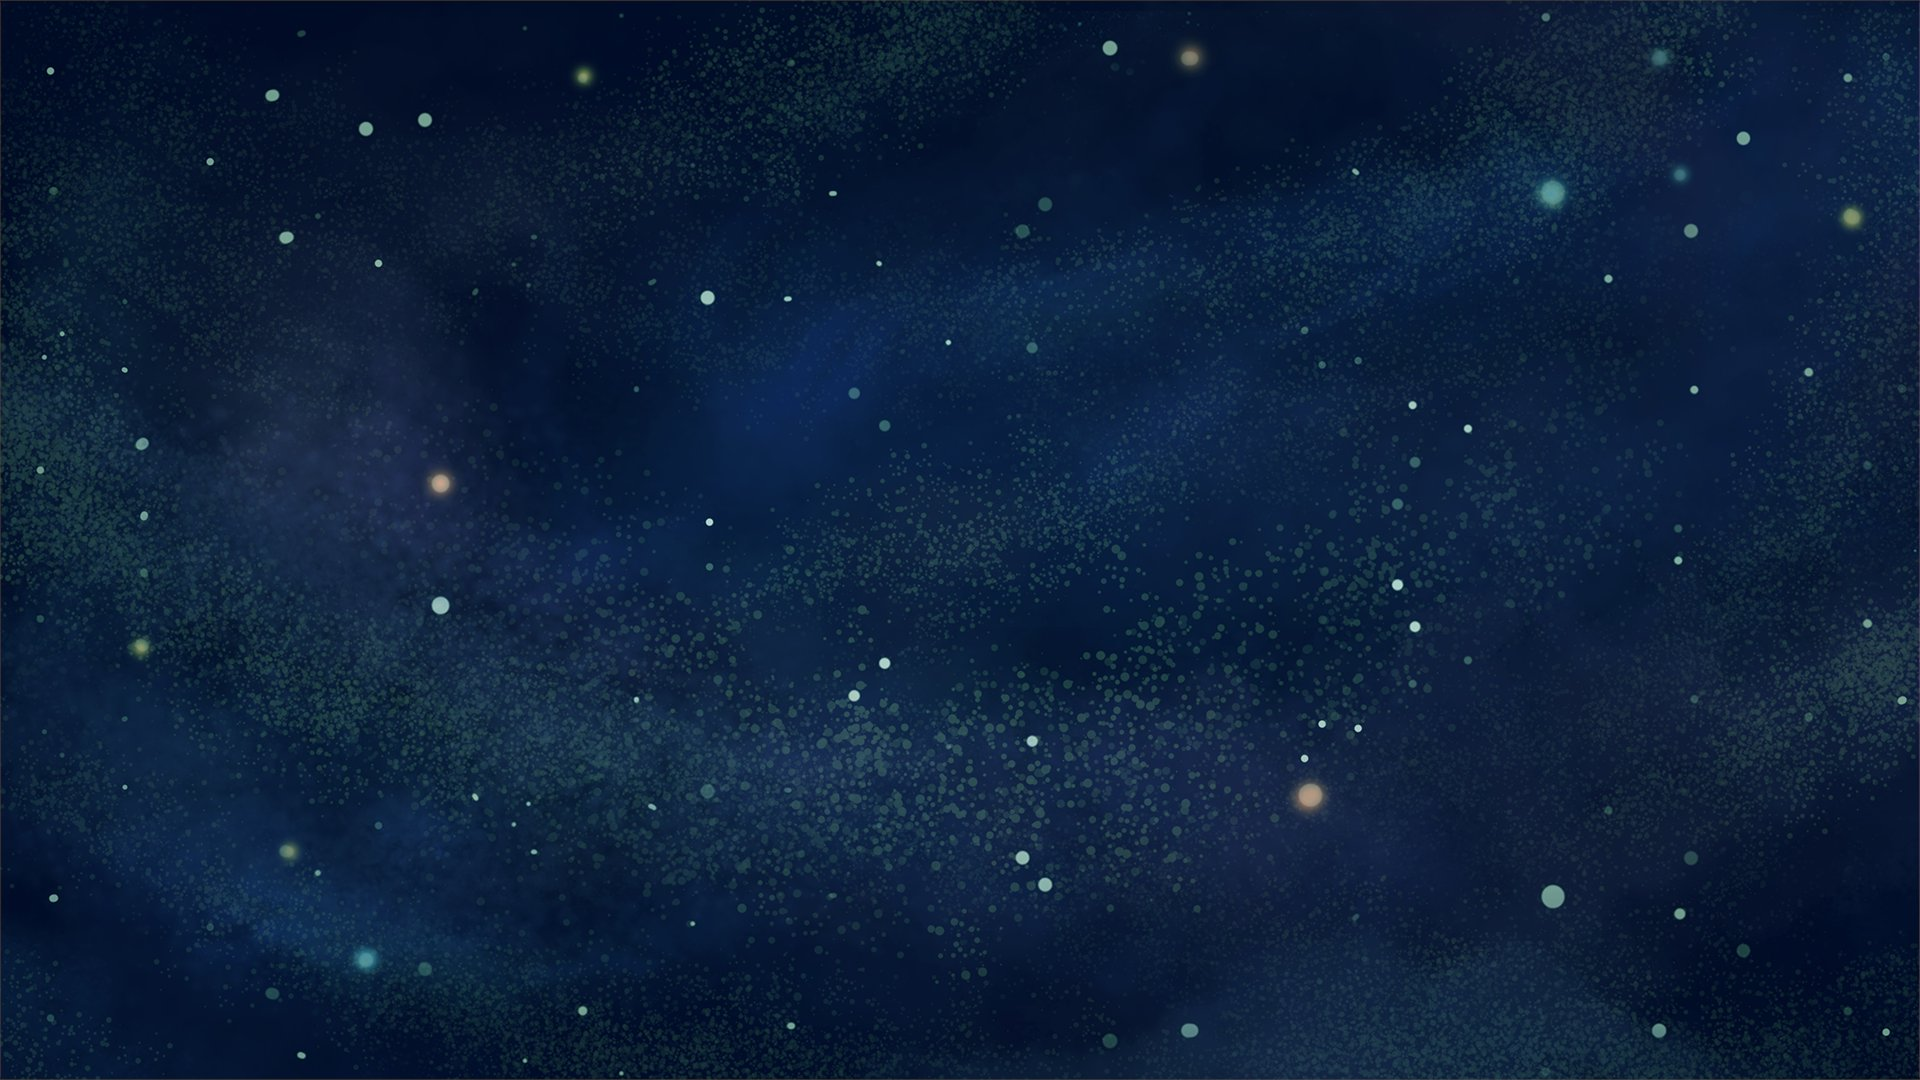
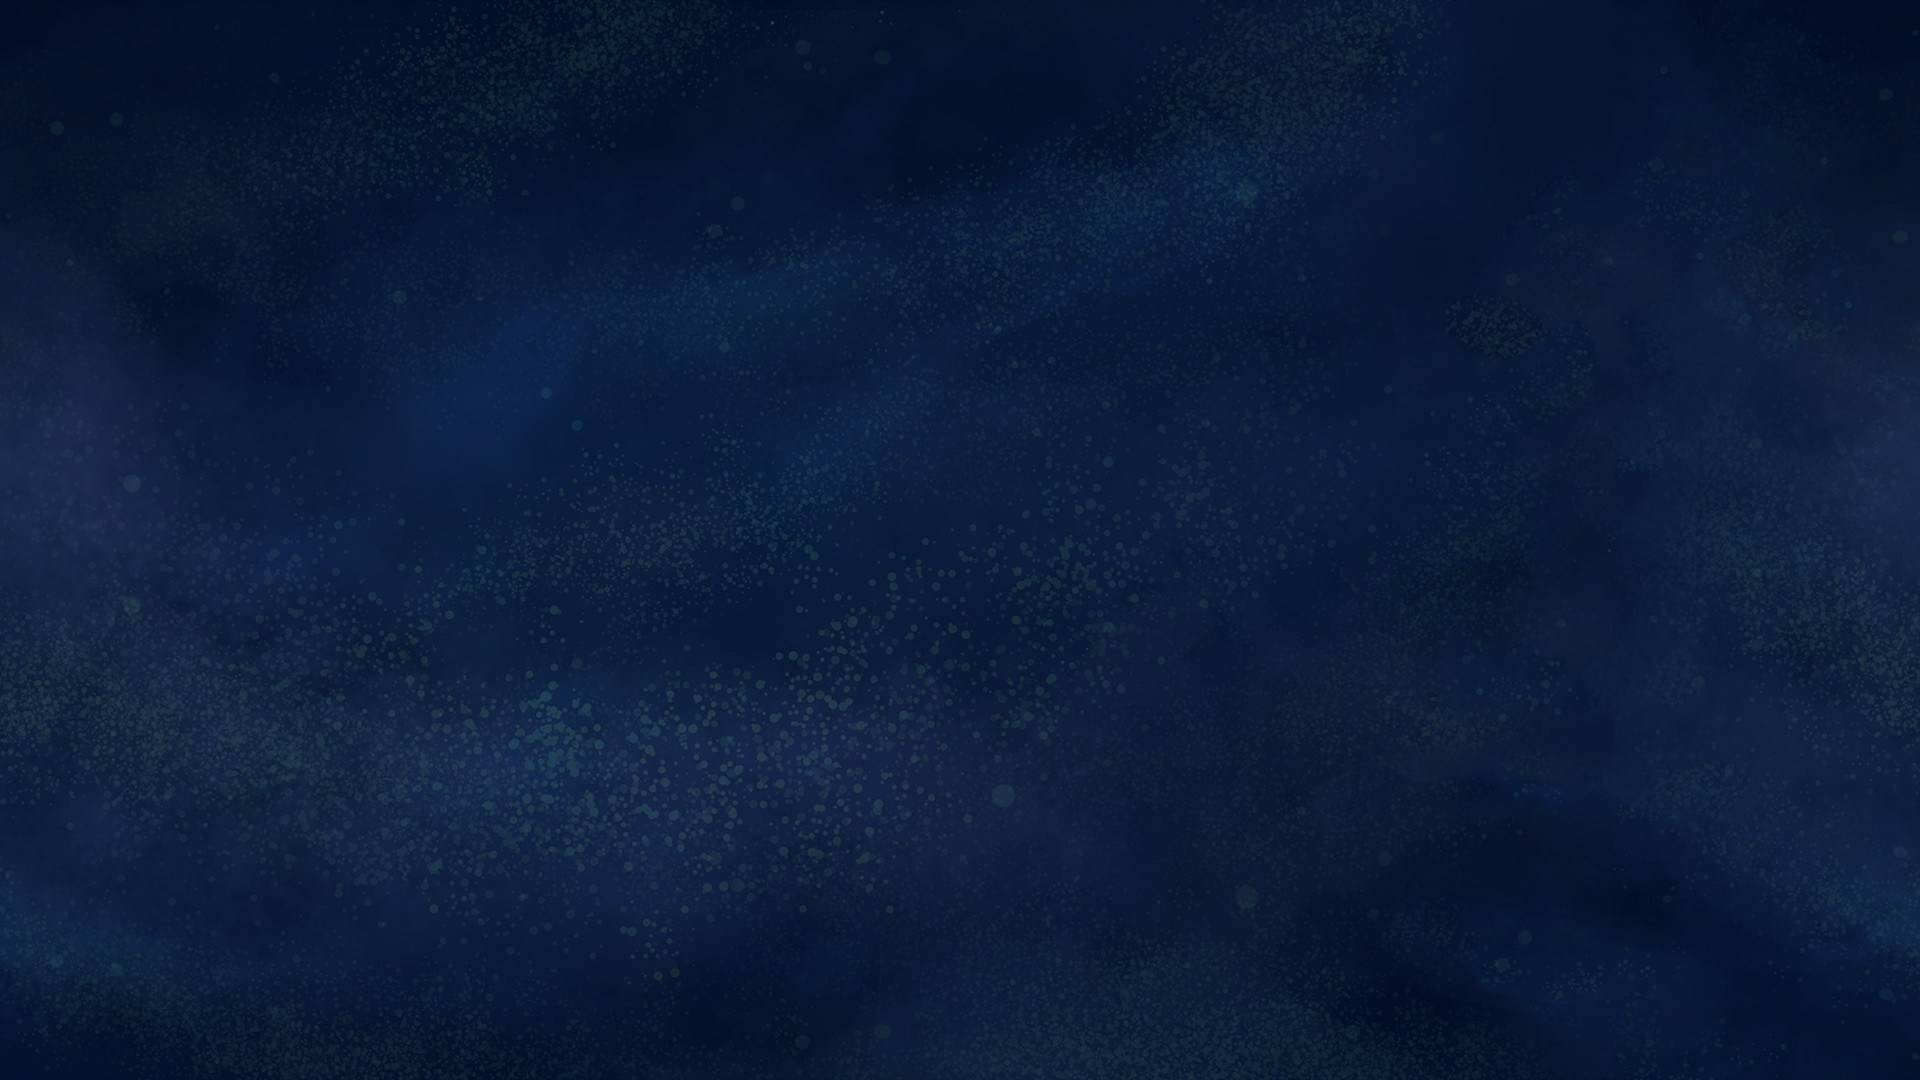
LightSpeed: add new BackgroundScene
Add moving background with parallax stars

https://phabricator.endlessm.com/T26171

diff --git a/com.endlessm.LightSpeed/app/backgroundScene.js b/com.endlessm.LightSpeed/app/backgroundScene.js
@@ -1,0 +1,105 @@
+/* LightSpeed
+ *
+ * Copyright (C) 2019 Endless Mobile, Inc.
+ *
+ * Author: Juan Pablo Ugarte <ugarte@endlessm.com>
+ */
+
+/* exported BackgroundScene */
+
+class BackgroundScene extends Phaser.Scene {
+
+    preload() {
+        this.load.image('background', 'assets/background.jpg');
+        this.load.atlas('background-particles', 'assets/atlas/background-particles.png',
+            'assets/atlas/background-particles.json');
+    }
+
+    create(speed) {
+        const width = game.config.width;
+        const height = game.config.height;
+        var screen = new Phaser.Geom.Rectangle(-50, 0, width + 100, height);
+        var offscreen = new Phaser.Geom.Line(width + 50, 0, width + 50, height);
+        const v = speed / 20;
+
+        this.cameras.main.fadeIn(200);
+
+        /* Background */
+        this.bgA = this.physics.add.image(0, 0, 'background');
+        this.bgB = this.physics.add.image(this.bgA.width, 0, 'background');
+
+        this.bgA.setOrigin(0, 0);
+        this.bgB.setOrigin(0, 0);
+        this.bgB.flipX = true;
+
+        this.bgA.setVelocityX(-v);
+        this.bgB.setVelocityX(-v);
+
+        this.backgrounds = [this.bgA, this.bgB];
+
+        /* Create Particles */
+        var bg = {
+            emitZone: { source: screen },
+            deathZone: { source: screen, type: 'onLeave' },
+            scale: {max: 1, min: 0.3},
+            lifespan: 100000,
+            blendMode: 'ADD'
+        };
+
+        var background = this.add.particles('background-particles');
+        this.bg1 = background.createEmitter(Object.assign(bg, {
+            frame: ['bg-p1', 'bg-p2', 'bg-p3', 'bg-p4'],
+            frequency: 500,
+            speedX: {min: v * -1.1, max: v * -1.4}
+        }));
+        this.bg2 = background.createEmitter(Object.assign(bg, {
+            frame: ['bg-p5', 'bg-p6'],
+            frequency: 700,
+            speedX: {min: v * -1.5, max: v * -2}
+        }));
+
+        this.bg1.emitParticle(96);
+        this.bg1.setEmitZone({ source: offscreen });
+
+        this.bg2.emitParticle(24);
+        this.bg2.setEmitZone({ source: offscreen });
+
+
+        this.events.on('shutdown', () => {
+            this.input.keyboard.shutdown();
+        }, this);
+    }
+
+    update() {
+        for (let i = 0, n = this.backgrounds.length; i < n; i++) {
+            const bg = this.backgrounds[i];
+
+            if (bg.width + bg.x <= 0)
+                bg.x += bg.width * n;
+        }
+    }
+
+    setSpeed(speed) {
+        const v = speed / 20;
+
+        /* Update Backgrounds speed */
+        for (let i = 0, n = this.backgrounds.length; i < n; i++)
+            this.backgrounds[i].setVelocityX(-v);
+
+        /* Update Particles speed */
+        this.bg1.setSpeedX({min: v * -1.1, max: v * -1.4});
+        this.bg2.setSpeedX({min: v * -1.5, max: v * -2});
+
+        const _velocity = this._velocity || v;
+
+        this.bg1.forEachAlive((p) => {
+            p.velocityX = v * p.velocityX / _velocity;
+        });
+        this.bg2.forEachAlive((p) => {
+            p.velocityX = v * p.velocityX / _velocity;
+        });
+
+        this._velocity = v;
+    }
+}
+

diff --git a/com.endlessm.LightSpeed/app/levelScene.js b/com.endlessm.LightSpeed/app/levelScene.js
@@ -8,7 +8,7 @@
 /* exported LevelScene, CONFETTI_COLORS, ASTRONAUT_PARTICLE_COLORS */
 /* global Ship, enemyTypes, saveState, shipTypes, powerupTypes,
     SpawnAstronautScope, SpawnEnemyScope, UpdateEnemyScope, SpawnPowerupScope,
-    ActivatePowerupScope, resetGlobalCounters */
+    ActivatePowerupScope, resetGlobalCounters, BackgroundScene */
 
 const CONFETTI_COLORS = [
     0x1500ff,
@@ -53,7 +53,6 @@ class LevelScene extends Phaser.Scene {
 
         this.resetQuestData();
 
-
         /* Create userScope */
         this.spawnAstronautScope = new SpawnAstronautScope();
         this.spawnEnemyScope = new SpawnEnemyScope();
@@ -85,7 +84,6 @@ class LevelScene extends Phaser.Scene {
 
     preload() {
         /* Common assets */
-        this.load.image('background', 'assets/background.jpg');
         this.load.image('astronaut', 'assets/astronaut.png');
         this.load.image('particle', 'assets/particles/particle.png');
         this.load.image('star', 'assets/particles/star.png');
@@ -111,13 +109,13 @@ class LevelScene extends Phaser.Scene {
     }
 
     create() {
-        const {centerX, centerY} = this.cameras.main;
-
-        /* Background */
-        this.add.image(centerX, centerY, 'background');
+        const centerY = game.config.height / 2;
 
         /* Fade in scene */
         this.cameras.main.fadeIn(200);
+
+        this.scene.launch('background', this.params.shipSpeed);
+        this.background = this.scene.get('background');
 
         /* Ship */
         this.ship = new Ship(this, this.params.shipAsset, 256, centerY);
@@ -357,6 +355,8 @@ class LevelScene extends Phaser.Scene {
             this.ship.setType(this.params.shipAsset);
         } else if (property === 'shipSize') {
             this.ship.setScale(this.params.shipSize / 100);
+        } else if (property === 'shipSpeed') {
+            this.background.setSpeed(this.params.shipSpeed);
         } else if (property === 'astronautSize') {
             this.astronauts.getChildren().forEach(astronaut => {
                 astronaut.setScale(this.params.astronautSize / 100);

diff --git a/com.endlessm.LightSpeed/app/titleScene.js b/com.endlessm.LightSpeed/app/titleScene.js
@@ -19,7 +19,6 @@ class TitleScene extends Phaser.Scene {
 
     preload() {
         /* Images */
-        this.load.image('background', 'assets/background.jpg');
         this.load.image('logo', 'assets/logo.png');
         this.load.image('particle', 'assets/particles/particle.png');
         this.load.image('astronaut', 'assets/astronaut.png');
@@ -39,12 +38,13 @@ class TitleScene extends Phaser.Scene {
         /* Reset Camera FX */
         this.cameras.main.resetFX();
 
-        /* Background */
-        var bg = this.add.image(centerX, centerY, 'background');
+        this.scene.launch('background', levelParameters[0].shipSpeed);
+        this.scene.moveDown('background');
 
         /* Bottom text */
         var text = this.add.text(0, 0, 'Press ENTER to start.', fontConfig);
-        Phaser.Display.Align.In.BottomCenter(text, bg, 0, -128);
+        text.setOrigin(0.5, 0.5);
+        text.setPosition(centerX, centerY * 1.8);
         this.tweens.add({
             targets: text,
             alpha: 0.16,

diff --git a/com.endlessm.LightSpeed/app/main.js b/com.endlessm.LightSpeed/app/main.js
@@ -9,7 +9,8 @@
 
 /* global globalParameters, defaultLevelParameters, defaultParameters,
     levelParameters, resetGlobalUserCode, ContinueScene, DebugScene,
-    GameOverScene, LevelScene, StartScene, TitleScene, ToyApp */
+    GameOverScene, LevelScene, StartScene, TitleScene, BackgroundScene,
+    ToyApp */
 
 const fontConfig = {
     color: 'white',
@@ -45,6 +46,7 @@ var config = {
     },
     scene: [
         titleScene,
+        new BackgroundScene('background'),
         new LevelScene('level'),
         new StartScene('start'),
         new GameOverScene('gameover'),

diff --git a/com.endlessm.LightSpeed/app/index.html b/com.endlessm.LightSpeed/app/index.html
@@ -15,6 +15,7 @@
     <script src="continueScene.js"></script>
     <script src="debugScene.js"></script>
     <script src="userScope.js"></script>
+    <script src="backgroundScene.js"></script>
     <script src="levelScene.js"></script>
     <script src="main.js"></script>
   </body>
